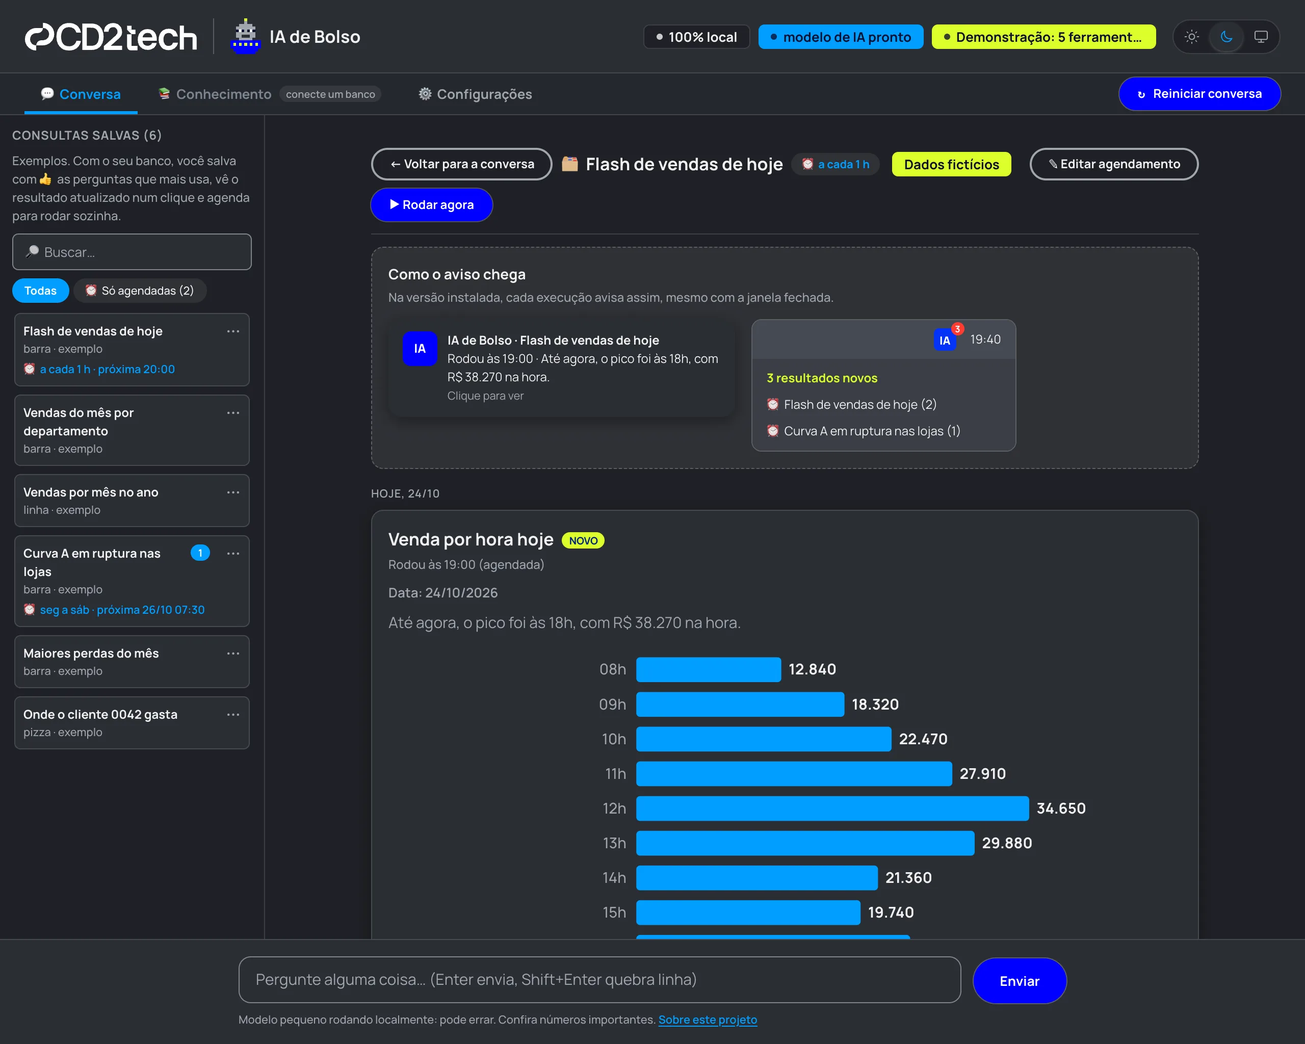
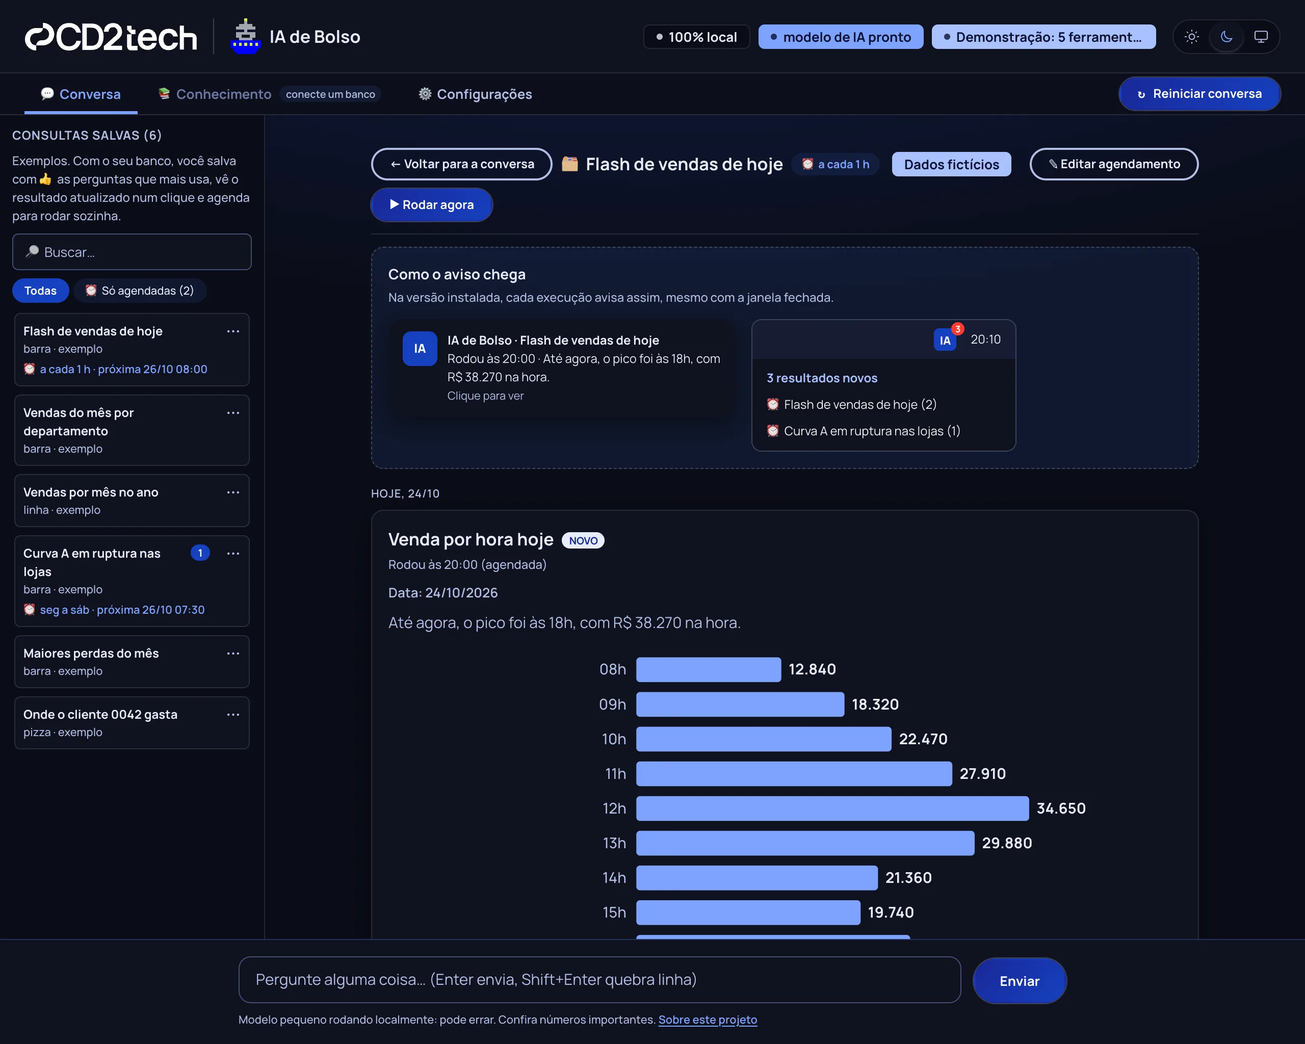
estilo: paleta na linha do Archeo no site e na tela da IA
Marinho (#192898 → #1640c0 → #2563eb) no lugar do azul elétrico #0000ff, sem o
verde-limão; destaques em azul-claro (#a9c1ff / #7da2ff). Áreas azuis do site com o
gradiente e o brilho do archeo.cd2.com.br; botões com gradiente marinho e cantos de
10 px. Tema escuro da tela com os fundos do Archeo (#0a0c16 / #0f1220). Filtro e
bolinha das consultas salvas em marinho, para ter contraste no escuro. Prints do
topo e dos agendamentos refeitos com as cores novas.

diff --git a/docs/index.html b/docs/index.html
@@ -14,26 +14,32 @@
 @font-face{font-family:"Manrope";font-weight:600;font-display:swap;src:url(assets/fonts/manrope-semibold.woff2) format("woff2")}
 @font-face{font-family:"Manrope";font-weight:700;font-display:swap;src:url(assets/fonts/manrope-bold.woff2) format("woff2")}
 @font-face{font-family:"Manrope";font-weight:800;font-display:swap;src:url(assets/fonts/manrope-extrabold.woff2) format("woff2")}
+/* paleta na linha do archeo.cd2.com.br: marinho (#192898 → #1640c0 → #2563eb) no lugar do azul elétrico */
 :root{
-  --surface-100:#f2f2f2; --surface-raised:#ffffff; --surface-brand:#0000ff;
-  --ink:#0d1233; --ink-muted:#464a53; --ink-brand:#0000ff; --on-brand:#ffffff;
-  --brand:#0000ff; --brand-hover:#0333f7; --on-primary:#ffffff;
-  --accent:#dbff2a; --on-accent:#011e80; --focus:#0000ff;
-  --border:#a1a6ae; --border-strong:#0d1233;
-  --logo-ink:#0000ff; --logo-ink-tech:#210e9e;
-  --blue-experience:#011e80; --purple-shift:#210e9e;
-  --status-atencao:#ff9900; --status-concluido:#019eff; --status-ink-escuro:#0d1233;
+  --surface-100:#f6f7fb; --surface-raised:#ffffff; --surface-brand:#192898;
+  --ink:#0f1430; --ink-muted:#4a5070; --ink-brand:#1640c0; --on-brand:#ffffff;
+  --brand:#1640c0; --brand-hover:#192898; --on-primary:#ffffff;
+  --brand-grad:linear-gradient(135deg,#192898,#1640c0); --brand-grad-hover:linear-gradient(135deg,#131f7a,#1838a8);
+  --accent:#e6edff; --on-accent:#192898; --focus:#1640c0;
+  --border:#d7dcec; --border-strong:#0f1430;
+  --logo-ink:#1640c0; --logo-ink-tech:#192898;
+  --blue-experience:#192898; --purple-shift:#210e9e;
+  --status-atencao:#ff9900; --status-concluido:#7da2ff; --status-ink-escuro:#0d1233;
   --space-1:4px; --space-2:8px; --space-3:12px; --space-4:16px; --space-6:24px; --space-8:32px; --space-12:48px; --space-16:64px;
   --radius-sm:6px; --radius-md:12px; --radius-lg:24px; --radius-pill:999px;
   --font-sans:"Manrope","Segoe UI",Arial,sans-serif; --font-mono:ui-monospace,Menlo,Consolas,monospace;
 }
-/* tema azul: só troca os tokens */
+/* tema azul: troca os tokens e usa o gradiente marinho do Archeo, com o brilho no canto */
 .t-blue{
-  --surface-100:#0000ff; --surface-raised:#011e80; --surface-brand:#210e9e;
-  --ink:#ffffff; --ink-muted:#f2f2f2; --ink-brand:#dbff2a;
-  --brand:#dbff2a; --brand-hover:#eaff6b; --on-primary:#011e80; --focus:#dbff2a;
-  --border-strong:#ffffff; --logo-ink:#ffffff; --logo-ink-tech:#ffffff;
-  background:var(--surface-100); color:var(--ink);
+  --surface-100:#192898; --surface-raised:rgba(255,255,255,.07); --surface-brand:#131f7a;
+  --ink:#ffffff; --ink-muted:#c9d3f5; --ink-brand:#a9c1ff;
+  --brand:#ffffff; --brand-hover:#e8ecff; --on-primary:#192898; --focus:#a9c1ff;
+  --brand-grad:#ffffff; --brand-grad-hover:#e8ecff;
+  --border:rgba(255,255,255,.18); --border-strong:rgba(255,255,255,.55);
+  --accent:#a9c1ff; --on-accent:#0f1430;
+  --logo-ink:#ffffff; --logo-ink-tech:#ffffff;
+  background:radial-gradient(60% 80% at 85% 0%,rgba(96,140,255,.45) 0%,rgba(0,0,0,0) 60%),linear-gradient(135deg,#192898 0%,#1640c0 60%,#2563eb 100%);
+  color:var(--ink);
 }
 *{box-sizing:border-box}
 html{scroll-behavior:smooth}
@@ -48,9 +54,9 @@ code{font-family:var(--font-mono);font-size:13px;background:var(--surface-raised
 .logo .li{fill:var(--logo-ink)} .logo .lt{fill:var(--logo-ink-tech)}
 
 /* botões */
-.btn{display:inline-flex;align-items:center;justify-content:center;gap:var(--space-2);height:44px;padding:0 var(--space-6);border-radius:var(--radius-pill);border:2px solid transparent;font:700 13px/16px var(--font-sans);text-decoration:none;transition:background-color .15s,color .15s,border-color .15s;white-space:nowrap}
-.btn--primary{background:var(--brand);color:var(--on-primary)}
-.btn--primary:hover{background:var(--brand-hover)}
+.btn{display:inline-flex;align-items:center;justify-content:center;gap:var(--space-2);height:44px;padding:0 var(--space-6);border-radius:10px;border:2px solid transparent;font:700 13px/16px var(--font-sans);text-decoration:none;transition:background-color .15s,color .15s,border-color .15s;white-space:nowrap}
+.btn--primary{background:var(--brand-grad);color:var(--on-primary)}
+.btn--primary:hover{background:var(--brand-grad-hover)}
 .btn--secondary{color:var(--ink);border-color:var(--border-strong)}
 .btn--secondary:hover{background:var(--surface-raised)}
 .btn--sm{height:32px;padding:0 var(--space-4);font-size:12px}
@@ -94,7 +100,7 @@ header.top{position:sticky;top:0;z-index:10;background:var(--surface-raised);bor
 .hero__grid .hero__body{max-width:none}
 .hero__grid h1{font-size:54px;line-height:60px}
 .hero__shot{margin:0;padding:var(--space-16) 0 96px}
-.hero__shot img{display:block;width:100%;height:auto;border-radius:var(--radius-md);border:1px solid rgba(255,255,255,.4);box-shadow:0 28px 64px rgba(1,30,128,.45),0 4px 12px rgba(1,30,128,.25)}
+.hero__shot img{display:block;width:100%;height:auto;border-radius:var(--radius-md);border:1px solid rgba(255,255,255,.4);box-shadow:0 28px 64px rgba(5,10,40,.55),0 4px 12px rgba(5,10,40,.3)}
 /* o seletor Claro/Escuro troca o print da tela, sem JavaScript; o azul do hero tira os tokens do .t-blue */
 .hero__tema{display:flex;flex-wrap:wrap;align-items:center;justify-content:center;gap:var(--space-2) var(--space-4);margin-top:var(--space-4);font:500 13px/20px var(--font-sans);color:var(--ink-muted)}
 .hero__tema .so{margin:0}
@@ -105,23 +111,22 @@ header.top{position:sticky;top:0;z-index:10;background:var(--surface-raised);bor
 .tela figcaption{margin-top:var(--space-3);font:500 13px/20px var(--font-sans);color:var(--ink-muted);max-width:72ch}
 /* destaque dos agendamentos: seção azul com dois prints; o seletor Claro/Escuro troca os dois, sem JavaScript */
 #agendamentos .tag{margin-bottom:0}
-.novo{display:inline-flex;align-items:center;gap:var(--space-2);margin-top:var(--space-6);padding:6px 14px;border-radius:var(--radius-pill);background:var(--accent);color:var(--on-accent);font:700 13px/20px var(--font-sans);text-decoration:none}
-.novo:hover{background:#eaff6b}
+.novo{display:inline-flex;align-items:center;gap:var(--space-2);margin-top:var(--space-6);padding:6px 14px;border-radius:var(--radius-pill);background:var(--brand);color:var(--on-primary);font:700 13px/20px var(--font-sans);text-decoration:none}
+.novo:hover{background:var(--brand-hover)}
 .agenda__topo{display:flex;flex-wrap:wrap;align-items:center;gap:var(--space-3)}
 .agenda__telas{display:grid;grid-template-columns:3fr 2fr;gap:var(--space-6);align-items:start;margin:0 0 var(--space-12)}
 .agenda__telas figure{margin:0}
-.agenda__telas img{display:block;width:100%;height:auto;border-radius:var(--radius-md);border:1px solid rgba(255,255,255,.4);box-shadow:0 28px 64px rgba(1,0,60,.45),0 4px 12px rgba(1,0,60,.25)}
+.agenda__telas img{display:block;width:100%;height:auto;border-radius:var(--radius-md);border:1px solid rgba(255,255,255,.4);box-shadow:0 28px 64px rgba(5,10,40,.55),0 4px 12px rgba(5,10,40,.3)}
 .agenda__telas figcaption{margin-top:var(--space-3);font:500 13px/20px var(--font-sans);color:var(--ink-muted)}
 .agenda__telas .crop{overflow:hidden;border-radius:var(--radius-md)}
 #agendamentos .so{margin:var(--space-6) 0 var(--space-8)}
 #agendamentos:has(#ag-escuro:checked) .tema-claro,#agendamentos:has(#ag-claro:checked) .tema-escuro{display:none}
 .grid3{display:grid;grid-template-columns:repeat(3,1fr);gap:var(--space-6)}
-#agendamentos .card{border-color:rgba(255,255,255,.25)}
 #agendamentos .card p{color:var(--ink-muted)}
 @media (max-width:900px){.agenda__telas,.grid3{grid-template-columns:1fr}}
 @media (max-width:1060px){.hero__grid h1{font-size:46px;line-height:52px}}
 .arcs{position:absolute;right:-180px;top:40px;width:720px;height:auto;z-index:0;pointer-events:none}
-.arcs path{fill:none;stroke:#ffffff;stroke-width:2;vector-effect:non-scaling-stroke;opacity:.55}
+.arcs path{fill:none;stroke:#a9c1ff;stroke-width:2;vector-effect:non-scaling-stroke;opacity:.35}
 
 /* seção */
 section.s{padding:96px 0}
@@ -287,8 +292,8 @@ src="https://www.facebook.com/tr?id=804031478836109&ev=PageView&noscript=1"
       <a class="novo" href="#agendamentos">Novo: consultas que rodam sozinhas e avisam você <span aria-hidden="true">→</span></a>
     </div>
     <figure class="hero__shot">
-      <img class="tema-claro" src="assets/telas/conversa-claro.webp" width="2560" height="2048" alt="Tela da IA de Bolso no tema claro: à esquerda a barra Consultas salvas; no meio, a pergunta &quot;Total por mês em fi titulo&quot; vira um gráfico de linha com o total de cada mês, tirado de um banco Oracle, com a consulta usada e os botões Salvar consulta, CSV e Imprimir/PDF. Na faixa das guias, à direita, o botão Reiniciar conversa.">
-      <img class="tema-escuro" src="assets/telas/conversa-escuro.webp" width="2560" height="2048" alt="A mesma tela da IA de Bolso no tema escuro: barra Consultas salvas à esquerda e o gráfico de linha do total por mês, em azul claro sobre fundo cinza escuro.">
+      <img class="tema-claro" src="assets/telas/conversa-claro.webp" width="2560" height="2048" alt="Tela da IA de Bolso no tema claro: à esquerda a barra Consultas salvas, com o filtro Só agendadas e o relógio das consultas agendadas; no meio, a consulta salva Vendas por mês no ano vira um gráfico de linha com a venda de cada mês de 2026 e uma frase de resumo. No topo, o modelo de IA pronto e o modo Demonstração, com dados fictícios.">
+      <img class="tema-escuro" src="assets/telas/conversa-escuro.webp" width="2560" height="2048" alt="A mesma tela da IA de Bolso no tema escuro: fundo marinho quase preto, a barra Consultas salvas e o gráfico de linha das vendas por mês em azul claro.">
       <figcaption class="hero__tema">
         <span class="so" role="group" aria-label="Tema da tela">
           <input type="radio" name="tema" id="tema-claro" checked><label for="tema-claro">Claro</label>

diff --git a/web/index.html b/web/index.html
@@ -25,61 +25,64 @@ window.CD2_COR_TOPO = { claro:'#ffffff', escuro:'#2b2e35' };
 @font-face{font-family:"Manrope";font-weight:700;font-style:normal;font-display:swap;src:url(fonts/manrope-bold.woff2) format("woff2")}
 @font-face{font-family:"Manrope";font-weight:800;font-style:normal;font-display:swap;src:url(fonts/manrope-extrabold.woff2) format("woff2")}
 :root{
+  /* paleta na linha do archeo.cd2.com.br: marinho (#192898 → #1640c0) no lugar do azul elétrico */
   /* superfícies e texto (tema claro) */
-  --surface-100:#f2f2f2; --surface-raised:#ffffff; --surface-brand:#0000ff;
-  --ink:#0d1233; --ink-muted:#464a53; --ink-brand:#0000ff; --on-brand:#ffffff;
+  --surface-100:#f6f7fb; --surface-raised:#ffffff; --surface-brand:#192898;
+  --ink:#0f1430; --ink-muted:#4a5070; --ink-brand:#1640c0; --on-brand:#ffffff;
   /* ação */
-  --brand:#0000ff; --brand-hover:#0333f7; --on-primary:#ffffff;
-  --accent:#dbff2a; --on-accent:#011e80; --focus:#0000ff;
+  --brand:#1640c0; --brand-hover:#192898; --on-primary:#ffffff;
+  --brand-grad:linear-gradient(135deg,#192898,#1640c0); --brand-grad-hover:linear-gradient(135deg,#131f7a,#1838a8);
+  --accent:#e6edff; --on-accent:#192898; --focus:#1640c0;
   /* bordas */
-  --border:#a1a6ae; --border-strong:#0d1233; --border-field:#6a717f;
+  --border:#c5cbe0; --border-strong:#0f1430; --border-field:#7a82a3;
   /* paleta complementar usada aqui */
-  --blue-experience:#011e80; --blue-qwerty:#0333f7; --gray-solution:#a1a6ae;
+  --blue-experience:#192898; --blue-qwerty:#2563eb; --gray-solution:#a1a6ae;
   /* status (sempre com a palavra junto) */
-  --status-concluido:#019eff; --status-melhoria:#dbff2a; --status-desenvolvendo:#0333f7;
+  --status-concluido:#7da2ff; --status-melhoria:#a9c1ff; --status-desenvolvendo:#2563eb;
   --status-backlog:#a1a6ae; --status-atencao:#ff9900; --status-ink-escuro:#0d1233;
   /* logo */
-  --logo-ink:#0000ff; --logo-ink-tech:#210e9e;
+  --logo-ink:#1640c0; --logo-ink-tech:#192898;
   /* camadas, linhas e estados que o escuro redefine */
-  --surface-top:#ffffff; --surface-guias:#f2f2f2;
-  --line:rgba(13,18,51,.12); --line-soft:rgba(13,18,51,.08); --line-strong:rgba(13,18,51,.2);
-  --tint:rgba(13,18,51,.06); --tint-2:rgba(13,18,51,.1); --backdrop:rgba(13,18,51,.55);
-  --atencao-bg:#fff4e0; --tip-bg:#0d1233; --tip-ink:#ffffff; --ink-papel:#011e80;
+  --surface-top:#ffffff; --surface-guias:#f6f7fb;
+  --line:rgba(15,20,48,.10); --line-soft:rgba(15,20,48,.06); --line-strong:rgba(15,20,48,.18);
+  --tint:rgba(22,64,192,.06); --tint-2:rgba(22,64,192,.10); --backdrop:rgba(10,12,22,.55);
+  --atencao-bg:#fff4e0; --tip-bg:#0f1430; --tip-ink:#ffffff; --ink-papel:#192898;
   --ink-disabled:#a1a6ae; --disabled-bg:#a1a6ae; --disabled-ink:#464a53;
   --contorno-primario:transparent; /* no escuro, 1px claro em volta do botão azul para a forma aparecer no grafite */
   /* gráficos: série, eixo e as fatias da pizza */
-  --grafico-1:#0000ff; --grafico-eixo:#a1a6ae;
-  --pizza-1:#0000ff; --pizza-2:#011e80; --pizza-3:#019eff; --pizza-4:#0333f7; --pizza-5:#a1a6ae; --pizza-6:#dbff2a;
+  --grafico-1:#1640c0; --grafico-eixo:#a1a6ae;
+  --pizza-1:#1640c0; --pizza-2:#192898; --pizza-3:#7da2ff; --pizza-4:#2563eb; --pizza-5:#a1a6ae; --pizza-6:#a9c1ff;
   /* espaço, cantos, tipo */
   --space-1:4px; --space-2:8px; --space-3:12px; --space-4:16px; --space-6:24px; --space-8:32px; --space-12:48px;
   --radius-sm:6px; --radius-md:12px; --radius-lg:24px; --radius-pill:999px;
   --font-sans:"Manrope","Segoe UI",Arial,sans-serif;
   --font-mono:ui-monospace,Menlo,Consolas,monospace;
-  --shadow-card:0 4px 16px rgba(13,18,51,.08);
+  --shadow-card:0 8px 24px rgba(24,24,27,.08);
   /* bandeja do sistema no aviso de exemplo da Demonstração */
-  --bandeja-bg:#1f2126; --bandeja-menu:#2b2e35; --bandeja-ink:#f2f2f2; --bandeja-destaque:#dbff2a;
+  --bandeja-bg:#1f2126; --bandeja-menu:#2b2e35; --bandeja-ink:#f2f2f2; --bandeja-destaque:#a9c1ff;
   --bandeja-borda:transparent; --bandeja-marca:#ff3b30; --bandeja-marca-ink:#ffffff;
 }
-/* Escuro Gray Tech: os mesmos tokens, grafite derivado de #464a53/#6a717f. O JS do <head> resolve
+/* Escuro na linha do Archeo: os mesmos tokens, marinho quase preto (#0a0c16) com brilho azul no alto. O JS do <head> resolve
    "sistema" e põe data-tema no <html>. Só na tela: o impresso (PDF) fica sempre claro. */
 @media screen{
 :root[data-tema="escuro"]{
   color-scheme:dark;
-  --surface-100:#1f2126; --surface-raised:#2b2e35; --surface-brand:#0333f7;
-  --surface-top:#2b2e35; --surface-guias:#25282e;
-  --ink:#f2f2f2; --ink-muted:#a1a6ae; --ink-brand:#019eff; --on-brand:#ffffff;
-  --focus:#019eff;
-  --border:#464a53; --border-strong:#a1a6ae; --border-field:#80868f;
+  --surface-100:#0a0c16; --surface-raised:#0f1220; --surface-brand:#1640c0;
+  --surface-top:#0f1220; --surface-guias:#0c0f1b;
+  --ink:#e8ecff; --ink-muted:#b2bee4; --ink-brand:#7da2ff; --on-brand:#ffffff;
+  --focus:#7da2ff;
+  --border:#26325a; --border-strong:#b2bee4; --border-field:#444e76;
   --logo-ink:#ffffff; --logo-ink-tech:#ffffff;
-  --line:rgba(242,242,242,.14); --line-soft:rgba(242,242,242,.08); --line-strong:rgba(242,242,242,.24);
-  --tint:rgba(242,242,242,.08); --tint-2:rgba(242,242,242,.12); --backdrop:rgba(0,0,0,.65);
-  --atencao-bg:#3d3222; --tip-bg:#464a53; --tip-ink:#f2f2f2; --ink-papel:#dbff2a;
-  --ink-disabled:#7d8492; --disabled-bg:#464a53; --disabled-ink:#a1a6ae;
-  --grafico-1:#019eff; --grafico-eixo:#a1a6ae;
-  --pizza-1:#019eff; --pizza-2:#dbff2a; --pizza-3:#a1a6ae; --pizza-4:#553fe6; --pizza-5:#f2f2f2; --pizza-6:#0333f7;
-  --shadow-card:0 4px 16px rgba(0,0,0,.4); --contorno-primario:rgba(242,242,242,.24);
-  --bandeja-bg:#464a53; --bandeja-menu:#3a3e46; --bandeja-borda:rgba(242,242,242,.24);
+  --line:rgba(232,236,255,.12); --line-soft:rgba(232,236,255,.07); --line-strong:rgba(232,236,255,.22);
+  --tint:rgba(66,130,255,.10); --tint-2:rgba(66,130,255,.16); --backdrop:rgba(0,0,0,.65);
+  --atencao-bg:#3d3222; --tip-bg:#26325a; --tip-ink:#e8ecff; --ink-papel:#a9c1ff;
+  --ink-disabled:#6c76a2; --disabled-bg:#26325a; --disabled-ink:#6c76a2;
+  --grafico-1:#7da2ff; --grafico-eixo:#6c76a2;
+  --pizza-1:#7da2ff; --pizza-2:#a9c1ff; --pizza-3:#6c76a2; --pizza-4:#2563eb; --pizza-5:#e8ecff; --pizza-6:#1640c0;
+  --shadow-card:0 8px 24px rgba(0,0,0,.45); --contorno-primario:rgba(232,236,255,.22);
+  --bandeja-bg:#161c34; --bandeja-menu:#0f1220; --bandeja-borda:rgba(232,236,255,.2);
 }
+:root[data-tema="escuro"] body{background-image:radial-gradient(130% 55% at 50% -5%,rgba(37,80,215,.22) 0%,rgba(0,0,0,0) 65%);background-attachment:fixed}
 }
 *{box-sizing:border-box}
 html,body{height:100%;margin:0}
@@ -190,8 +193,8 @@ body{background:var(--surface-100);color:var(--ink);font:400 15px/24px var(--fon
 /* ---------- botões (Button) ---------- */
 button{font:700 13px/16px var(--font-sans);display:inline-flex;align-items:center;justify-content:center;gap:var(--space-2);height:44px;padding:0 var(--space-6);border-radius:var(--radius-pill);border:2px solid var(--border-strong);background:transparent;color:var(--ink);cursor:pointer;transition:background-color .15s,color .15s,border-color .15s}
 button:hover{background:var(--surface-raised)}
-button.primary{background:var(--brand);border-color:var(--brand);color:var(--on-primary);box-shadow:0 0 0 1px var(--contorno-primario)}
-button.primary:hover{background:var(--brand-hover);border-color:var(--brand-hover)}
+button.primary{background:var(--brand-grad);border-color:transparent;color:var(--on-primary);box-shadow:0 0 0 1px var(--contorno-primario)}
+button.primary:hover{background:var(--brand-grad-hover);border-color:transparent}
 button.sm{height:32px;padding:0 var(--space-4);font-size:12px}
 button:disabled{background:var(--disabled-bg);border-color:transparent;color:var(--disabled-ink);cursor:not-allowed}
 
@@ -488,9 +491,9 @@ button.aviso:hover{background:#e68a00;border-color:#e68a00}
 .salvas__filtro{display:flex;flex-wrap:wrap;gap:var(--space-1)}
 .salvas__filtro[hidden]{display:none}
 .salvas__filtro button{height:24px;padding:0 var(--space-3);border:0;border-radius:var(--radius-pill);background:var(--tint);color:var(--ink);font:500 11px/16px var(--font-sans)}
-.salvas__filtro button[aria-pressed=true]{background:var(--ink-brand);color:var(--on-brand);font-weight:700}
+.salvas__filtro button[aria-pressed=true]{background:var(--surface-brand);color:var(--on-brand);font-weight:700}
 .salvas__filtro button:focus-visible{outline:2px solid var(--focus);outline-offset:2px}
-.salvas__bolinha{float:right;margin-left:var(--space-1);padding:1px 7px;border-radius:var(--radius-pill);background:var(--ink-brand);color:var(--on-brand);font:700 10px/14px var(--font-sans)}
+.salvas__bolinha{float:right;margin-left:var(--space-1);padding:1px 7px;border-radius:var(--radius-pill);background:var(--surface-brand);color:var(--on-brand);font:700 10px/14px var(--font-sans)}
 .salvas__relogio{display:block;margin-top:var(--space-1);font:600 11px/16px var(--font-sans);color:var(--ink-brand)}
 #agendar{width:min(660px,94vw)}
 #agendar h2,#convAgenda h2{margin-top:0;overflow-wrap:anywhere}

diff --git a/docs/condicoes-instalacao.html b/docs/condicoes-instalacao.html
@@ -14,26 +14,32 @@
 @font-face{font-family:"Manrope";font-weight:600;font-display:swap;src:url(assets/fonts/manrope-semibold.woff2) format("woff2")}
 @font-face{font-family:"Manrope";font-weight:700;font-display:swap;src:url(assets/fonts/manrope-bold.woff2) format("woff2")}
 @font-face{font-family:"Manrope";font-weight:800;font-display:swap;src:url(assets/fonts/manrope-extrabold.woff2) format("woff2")}
+/* paleta na linha do archeo.cd2.com.br: marinho (#192898 → #1640c0 → #2563eb) no lugar do azul elétrico */
 :root{
-  --surface-100:#f2f2f2; --surface-raised:#ffffff; --surface-brand:#0000ff;
-  --ink:#0d1233; --ink-muted:#464a53; --ink-brand:#0000ff; --on-brand:#ffffff;
-  --brand:#0000ff; --brand-hover:#0333f7; --on-primary:#ffffff;
-  --accent:#dbff2a; --on-accent:#011e80; --focus:#0000ff;
-  --border:#a1a6ae; --border-strong:#0d1233;
-  --logo-ink:#0000ff; --logo-ink-tech:#210e9e;
-  --blue-experience:#011e80; --purple-shift:#210e9e;
-  --status-atencao:#ff9900; --status-concluido:#019eff; --status-ink-escuro:#0d1233;
+  --surface-100:#f6f7fb; --surface-raised:#ffffff; --surface-brand:#192898;
+  --ink:#0f1430; --ink-muted:#4a5070; --ink-brand:#1640c0; --on-brand:#ffffff;
+  --brand:#1640c0; --brand-hover:#192898; --on-primary:#ffffff;
+  --brand-grad:linear-gradient(135deg,#192898,#1640c0); --brand-grad-hover:linear-gradient(135deg,#131f7a,#1838a8);
+  --accent:#e6edff; --on-accent:#192898; --focus:#1640c0;
+  --border:#d7dcec; --border-strong:#0f1430;
+  --logo-ink:#1640c0; --logo-ink-tech:#192898;
+  --blue-experience:#192898; --purple-shift:#210e9e;
+  --status-atencao:#ff9900; --status-concluido:#7da2ff; --status-ink-escuro:#0d1233;
   --space-1:4px; --space-2:8px; --space-3:12px; --space-4:16px; --space-6:24px; --space-8:32px; --space-12:48px; --space-16:64px;
   --radius-sm:6px; --radius-md:12px; --radius-lg:24px; --radius-pill:999px;
   --font-sans:"Manrope","Segoe UI",Arial,sans-serif; --font-mono:ui-monospace,Menlo,Consolas,monospace;
 }
-/* tema azul: só troca os tokens */
+/* tema azul: troca os tokens e usa o gradiente marinho do Archeo, com o brilho no canto */
 .t-blue{
-  --surface-100:#0000ff; --surface-raised:#011e80; --surface-brand:#210e9e;
-  --ink:#ffffff; --ink-muted:#f2f2f2; --ink-brand:#dbff2a;
-  --brand:#dbff2a; --brand-hover:#eaff6b; --on-primary:#011e80; --focus:#dbff2a;
-  --border-strong:#ffffff; --logo-ink:#ffffff; --logo-ink-tech:#ffffff;
-  background:var(--surface-100); color:var(--ink);
+  --surface-100:#192898; --surface-raised:rgba(255,255,255,.07); --surface-brand:#131f7a;
+  --ink:#ffffff; --ink-muted:#c9d3f5; --ink-brand:#a9c1ff;
+  --brand:#ffffff; --brand-hover:#e8ecff; --on-primary:#192898; --focus:#a9c1ff;
+  --brand-grad:#ffffff; --brand-grad-hover:#e8ecff;
+  --border:rgba(255,255,255,.18); --border-strong:rgba(255,255,255,.55);
+  --accent:#a9c1ff; --on-accent:#0f1430;
+  --logo-ink:#ffffff; --logo-ink-tech:#ffffff;
+  background:radial-gradient(60% 80% at 85% 0%,rgba(96,140,255,.45) 0%,rgba(0,0,0,0) 60%),linear-gradient(135deg,#192898 0%,#1640c0 60%,#2563eb 100%);
+  color:var(--ink);
 }
 *{box-sizing:border-box}
 html{scroll-behavior:smooth}
@@ -48,9 +54,9 @@ code{font-family:var(--font-mono);font-size:13px;background:var(--surface-raised
 .logo .li{fill:var(--logo-ink)} .logo .lt{fill:var(--logo-ink-tech)}
 
 /* botões */
-.btn{display:inline-flex;align-items:center;justify-content:center;gap:var(--space-2);height:44px;padding:0 var(--space-6);border-radius:var(--radius-pill);border:2px solid transparent;font:700 13px/16px var(--font-sans);text-decoration:none;transition:background-color .15s,color .15s,border-color .15s;white-space:nowrap}
-.btn--primary{background:var(--brand);color:var(--on-primary)}
-.btn--primary:hover{background:var(--brand-hover)}
+.btn{display:inline-flex;align-items:center;justify-content:center;gap:var(--space-2);height:44px;padding:0 var(--space-6);border-radius:10px;border:2px solid transparent;font:700 13px/16px var(--font-sans);text-decoration:none;transition:background-color .15s,color .15s,border-color .15s;white-space:nowrap}
+.btn--primary{background:var(--brand-grad);color:var(--on-primary)}
+.btn--primary:hover{background:var(--brand-grad-hover)}
 .btn--secondary{color:var(--ink);border-color:var(--border-strong)}
 .btn--secondary:hover{background:var(--surface-raised)}
 .btn--sm{height:32px;padding:0 var(--space-4);font-size:12px}

diff --git a/tests/chart.test.js b/tests/chart.test.js
@@ -54,8 +54,8 @@ test('render linha: o último rótulo do eixo aparece e o anterior some quando f
 test('render pizza: fatias, legenda, fatia única vira círculo, total zero sem NaN', () => {
   const s = G.render('pizza', ['d', 'v'], [{ d:'A', v:1 }, { d:'B', v:1 }, { d:'C', v:2 }], { x:'d', y:'v' });
   assert.equal(count(s, '<path'), 3); assert.equal(count(s, '<li>'), 3);
-  assert.ok(s.includes('fill:var(--pizza-1,#0000ff)'), 'fatia lê o token do tema, com o hex do claro de reserva');
-  assert.ok(s.includes('background:var(--pizza-3,#019eff)'), 'legenda usa o mesmo token da fatia');
+  assert.ok(s.includes('fill:var(--pizza-1,#1640c0)'), 'fatia lê o token do tema, com o hex do claro de reserva');
+  assert.ok(s.includes('background:var(--pizza-3,#7da2ff)'), 'legenda usa o mesmo token da fatia');
   assert.ok(G.render('pizza', ['d', 'v'], [{ d:'A', v:9 }], { x:'d', y:'v' }).includes('<circle'));
   assert.ok(!/NaN/.test(G.render('pizza', ['d', 'v'], [{ d:'A', v:0 }, { d:'B', v:0 }], { x:'d', y:'v' })));
 });

diff --git a/web/chart.js b/web/chart.js
@@ -3,7 +3,7 @@
    tokens --pizza-N (claro ou escuro) e guarda o hex do claro como reserva fora da página. Todo texto que vem do banco é escapado aqui. Sem animação. */
 (function(root){
 "use strict";
-const PALETA = ['#0000ff', '#011e80', '#019eff', '#0333f7', '#a1a6ae', '#dbff2a'];
+const PALETA = ['#1640c0', '#192898', '#7da2ff', '#2563eb', '#a1a6ae', '#a9c1ff'];
 const corPizza = i => 'var(--pizza-' + (i % PALETA.length + 1) + ',' + PALETA[i % PALETA.length] + ')';
 const MESES = ['jan','fev','mar','abr','mai','jun','jul','ago','set','out','nov','dez'];
 const W = 640;
